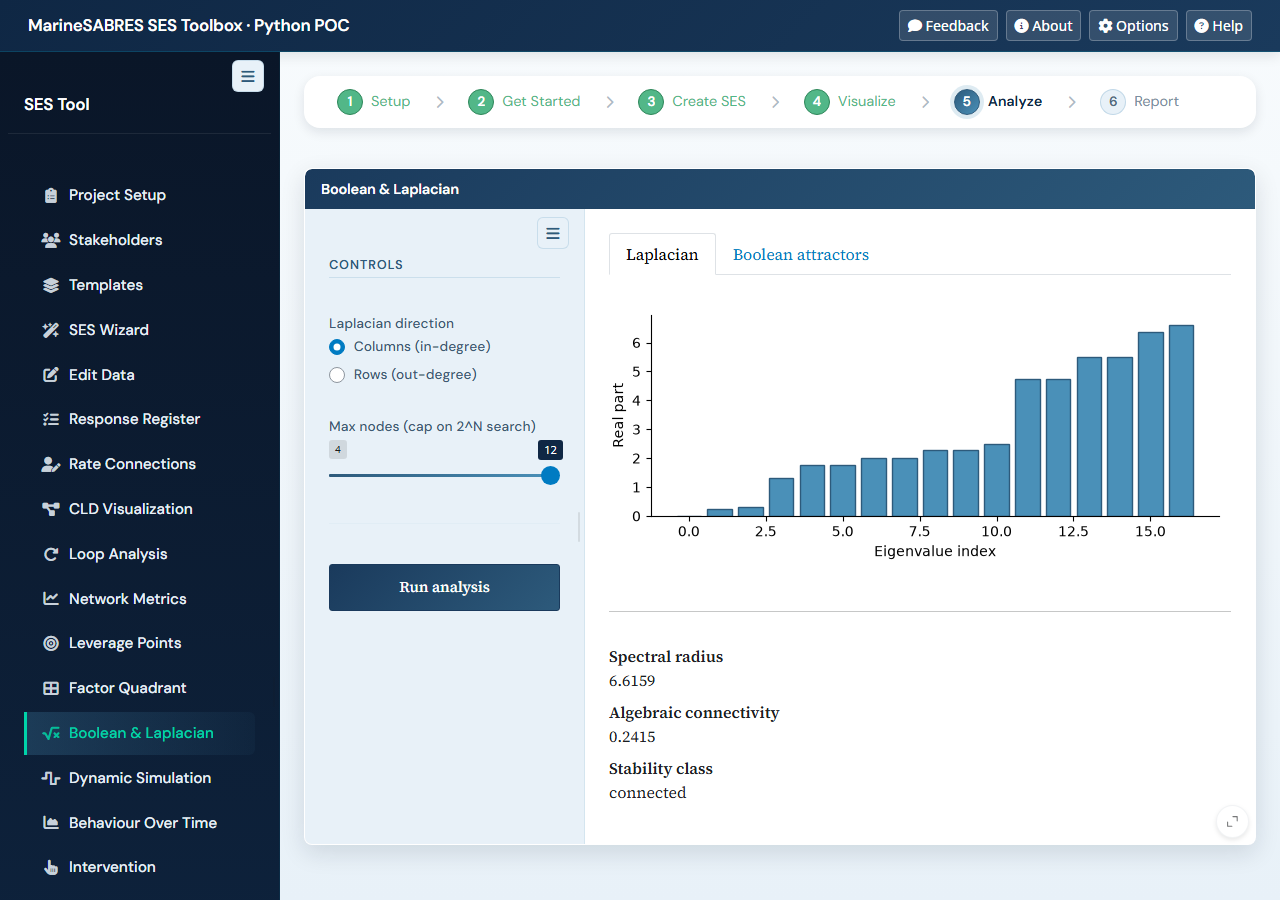
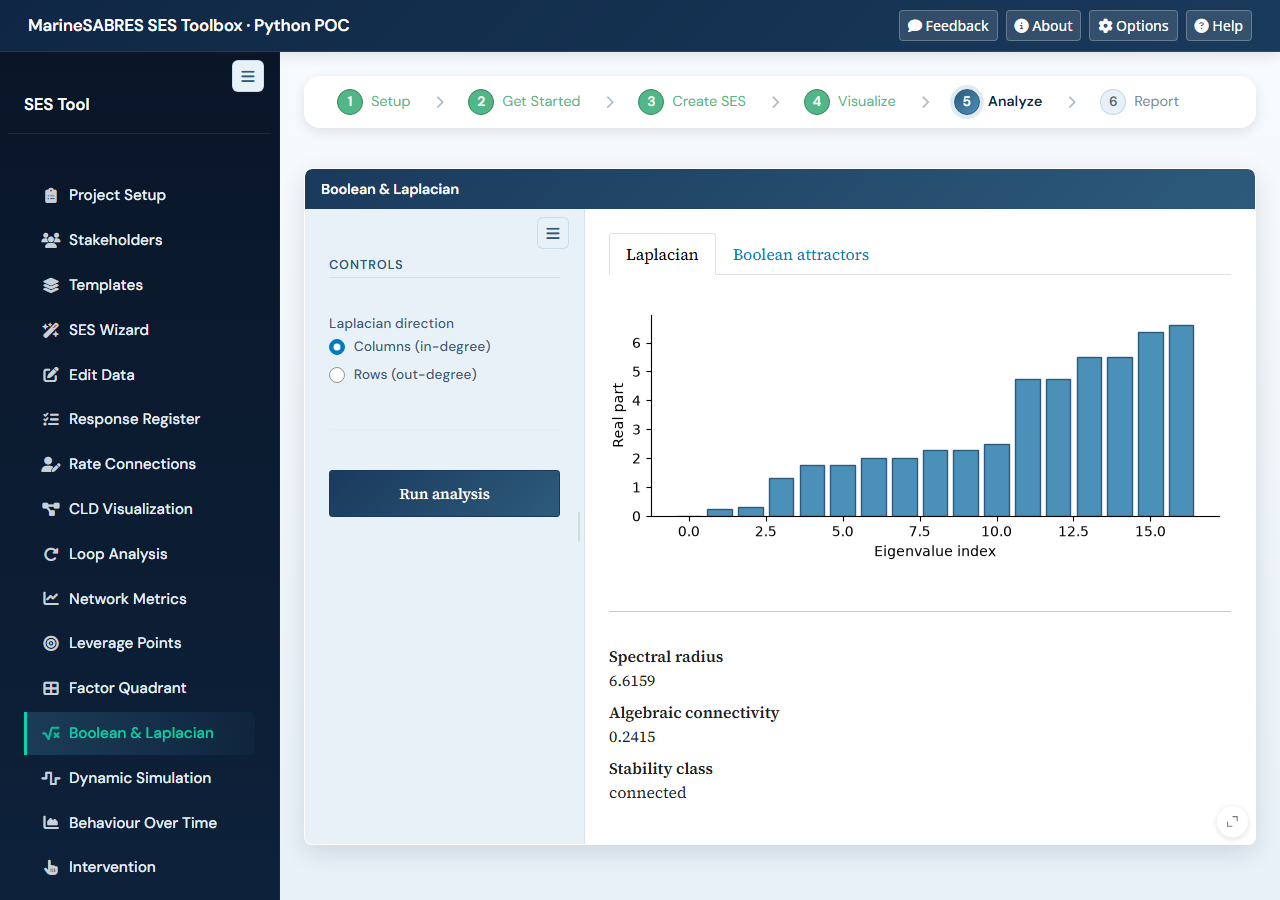
test(boolean): e2e for core, all-off and sampled paths; manual §17
Claude-Session: https://claude.ai/code/session_01JnZgoXKWzYkN6cfmEZbXzr

Changed region(s): [[0.25, 0.4667, 0.4375, 0.5911], [0.25, 0.6222, 0.4375, 0.6844]]

diff --git a/tests/test_boolean_sampled_e2e.py b/tests/test_boolean_sampled_e2e.py
@@ -1,0 +1,141 @@
+"""E2E for the Boolean / Laplacian module — sampled fallback.
+
+Companion to ``tests/test_boolean_e2e.py`` (all-off) and
+``tests/test_boolean_happy_e2e.py`` (exact multi-attractor table). This test
+loads the Caribbean MarineSABRES template (78 elements; a 64-node feedback
+core, above the exact limit of 20 core nodes), so the background task falls
+back to the sampled whole-network search with the fixed arguments
+(2000 random starts, seed 0). It checks:
+  - the ``core_info`` line names the whole network and its core;
+  - the ``core_too_large`` warning names the core size and the limit;
+  - the ``sampled_note`` paragraph is shown;
+  - the sampled table has at least one attractor row;
+  - no danger alert anywhere.
+
+Every selector is scoped to the module's namespaced ids (``#boolean-...``):
+all nav panels share one DOM, so a bare ``text=`` match could hit another
+panel.
+"""
+import asyncio
+
+from playwright.async_api import async_playwright
+
+CARIBBEAN = "Caribbean Island - Comprehensive SES Template (MarineSABRES)"
+
+
+async def main():
+    async with async_playwright() as p:
+        browser = await p.chromium.launch()
+        page = await (await browser.new_context()).new_page()
+        await page.set_viewport_size({"width": 1280, "height": 900})
+        await page.goto("http://127.0.0.1:8000", wait_until="networkidle")
+
+        # --- Step 1: load the Caribbean template via the Templates panel.
+        await page.wait_for_selector("#sespy_nav_templates", timeout=60000)
+        await page.click("#sespy_nav_templates")
+        await page.wait_for_selector("#templates-templates_list h5", timeout=30000)
+
+        # The card order (h5s, MarineSABRES group first) is the order of the
+        # load_template_<i> buttons; find the card by its name.
+        cards = await page.evaluate(
+            "() => Array.from(document.querySelectorAll('#templates-templates_list h5'))"
+            ".map(e => e.textContent.trim())"
+        )
+        print("templates listed:", cards)
+        assert CARIBBEAN in cards, f"Caribbean template missing from list: {cards}"
+        load_btn = f"#templates-load_template_{cards.index(CARIBBEAN)}"
+        # The h5s render before Shiny binds the buttons; an unbound click is lost.
+        await page.wait_for_selector(f"{load_btn}.shiny-bound-input", timeout=15000)
+        await page.click(load_btn)
+        await page.wait_for_timeout(2500)
+
+        # --- Step 2: run the analysis on the loaded 78-node SES.
+        await page.click("#sespy_nav_boolean")
+        await page.wait_for_selector("#boolean-run_boolean.shiny-bound-input", timeout=30000)
+        await page.click("#boolean-run_boolean")
+
+        # The Laplacian part is synchronous: its stability summary is the
+        # witness that this Run reached the server.
+        await page.wait_for_function(
+            "() => document.querySelectorAll('#boolean-stability_summary dl dt').length >= 3",
+            timeout=60000,
+        )
+
+        # Scope to this module's navset, never a bare text= match.
+        await page.click("#boolean-boolean_tabs a[data-value='Boolean attractors']")
+
+        # Wait for the background task's result (a table row or any alert),
+        # not a fixed delay. The sampled search takes about half a second
+        # idle; the budget allows for a loaded machine.
+        await page.wait_for_selector(
+            "#boolean-attractor_panel table tbody tr, #boolean-attractor_panel .alert-danger",
+            timeout=90000,
+        )
+
+        danger_count = await page.evaluate(
+            "() => document.querySelectorAll('.alert-danger').length"
+        )
+        print(f"alert-danger count: {danger_count}")
+        assert danger_count == 0, f"unexpected error alert(s) present: {danger_count}"
+
+        core_info = await page.evaluate(
+            "() => {"
+            "  const e = document.querySelector('#boolean-attractor_panel .boolean-core-info');"
+            "  return e ? e.textContent.trim() : null;"
+            "}"
+        )
+        print(f"core info: {core_info!r}")
+        assert (core_info is not None and "78 nodes" in core_info
+                and "64 in the feedback core" in core_info), \
+            f"core_info line missing or wrong: {core_info}"
+
+        warning = await page.evaluate(
+            "() => {"
+            "  const w = document.querySelector('#boolean-attractor_panel .alert-warning');"
+            "  return w ? w.textContent.trim() : null;"
+            "}"
+        )
+        print(f"core_too_large warning: {warning!r}")
+        assert warning is not None, "expected the core_too_large warning"
+        assert ("feedback core has 64 nodes" in warning
+                and "exact limit of 20" in warning
+                and "sampled search" in warning), \
+            f"warning text doesn't match core_too_large: {warning}"
+
+        note = await page.evaluate(
+            "() => {"
+            "  const ps = Array.from(document.querySelectorAll("
+            "    '#boolean-attractor_panel p.text-muted'));"
+            "  const p = ps.find(e => e.textContent.trim().startsWith('Sampled search:'));"
+            "  return p ? p.textContent.trim() : null;"
+            "}"
+        )
+        print(f"sampled note: {note!r}")
+        assert note is not None, "expected the sampled_note paragraph"
+        assert ("2000 random start states (seed 0)" in note
+                and "within 1000 steps" in note), \
+            f"sampled note doesn't show the fixed arguments: {note}"
+
+        # Sampled table: count rows on the table element itself.
+        n_rows = await page.evaluate(
+            "() => document.querySelectorAll("
+            "  '#boolean-attractor_panel table tbody tr'"
+            ").length"
+        )
+        print(f"sampled attractor table rows: {n_rows}")
+        assert n_rows >= 1, f"expected >=1 attractor row in table, got {n_rows}"
+
+        headers = await page.evaluate(
+            "() => Array.from(document.querySelectorAll("
+            "  '#boolean-attractor_panel table thead th')).map(e => e.textContent.trim())"
+        )
+        print(f"sampled table headers: {headers}")
+        assert "Hits" in headers and "basin_size" not in headers, \
+            f"sampled table should show hits and no basin size: {headers}"
+
+        await page.screenshot(path="tests/screenshots/boolean_sampled.png")
+        print("\nboolean sampled-path e2e assertions pass")
+        await browser.close()
+
+
+asyncio.run(main())

diff --git a/tests/test_boolean_happy_e2e.py b/tests/test_boolean_happy_e2e.py
@@ -1,13 +1,15 @@
-"""E2E for the Boolean / Laplacian module — happy path.
+"""E2E for the Boolean / Laplacian module — multi-attractor happy path.
 
-Companion to ``tests/test_boolean_e2e.py``. The default 17-node sample exceeds
-the 12-node Boolean attractor cap, so that test only exercises the warning
-branch. This test loads the ``Minimal Demo`` 5-node template (which is below
-the cap) and verifies that the attractor table renders with at least one row
-end-to-end:
+Companion to ``tests/test_boolean_e2e.py`` (the default sample's all-off
+result) and ``tests/test_boolean_sampled_e2e.py`` (the sampled fallback). This
+test loads the ``Minimal Demo`` 5-node template, whose whole network is its
+feedback core (a positive 3-cycle plus a mutually activating pair), and checks
+the exact feedback-core search end to end:
   - Eigenvalue plot still renders.
   - Stability summary populates.
-  - Boolean tab shows a populated ``<table>`` (no warning, no danger alert).
+  - Boolean tab shows the ``core_info`` line and a table with at least two
+    attractor rows (no warning, no danger alert). The search runs in a
+    background task, so the test waits for its result, not a fixed delay.
 """
 import asyncio
 
@@ -102,32 +104,25 @@ async def main():
         # Scope to this module's navset, never a bare text= match: every panel
         # shares one DOM, so a future label elsewhere would hijack this click.
         await page.click("#boolean-boolean_tabs a[data-value='Boolean attractors']")
-        # Wait for the attractor panel's reactive content instead of racing a
-        # fixed sleep. Deliberately a NEUTRAL any-content gate, not
-        # "table tbody tr": gating on the table would pre-empt the
-        # alert-warning assertion below, so a too-large warning regressed onto a
-        # 5-node network would die on an opaque selector timeout instead of
-        # failing with "unexpected too-large warning on a 5-node network".
-        # The placeholder clause is defensive only here (the Run click above
-        # already set result_store, so analysis_boolean.py:183 cannot render),
-        # but it keeps the gate correct if that order is ever reversed.
-        await page.wait_for_function(
-            "() => {"
-            "  const el = document.querySelector('#boolean-attractor_panel');"
-            "  if (!el) return false;"
-            "  const s = (el.textContent || '').trim();"
-            "  return s.length > 0 && !s.includes(\"Click 'Run analysis'\");"
-            "}",
-            timeout=15000,
+        # Wait for the background search's FINAL content, not a fixed sleep.
+        # Deliberately a neutral gate (a table row OR any alert), not
+        # "table tbody tr" alone: gating on the table would pre-empt the
+        # alert assertions below, so a warning regressed onto a 5-node network
+        # would die on an opaque selector timeout instead of failing with a
+        # clear message. The "Computing attractors…" and "Click 'Run
+        # analysis'" placeholders are bare <p>s and do not satisfy it.
+        await page.wait_for_selector(
+            "#boolean-attractor_panel table tbody tr, #boolean-attractor_panel .alert",
+            timeout=60000,
         )
 
-        # No too-large warning — we're below the 12-node cap.
+        # No warning: the 5-node core is far inside the exact limit.
         warning_count = await page.evaluate(
             "() => document.querySelectorAll('#boolean-attractor_panel .alert-warning').length"
         )
         print(f"alert-warning count (should be 0): {warning_count}")
         assert warning_count == 0, \
-            "unexpected too-large warning on a 5-node network"
+            "unexpected warning on a 5-node network"
 
         # No danger alert anywhere on the page.
         danger_count = await page.evaluate(
@@ -136,15 +131,29 @@ async def main():
         print(f"alert-danger count: {danger_count}")
         assert danger_count == 0, f"unexpected error alert(s) present: {danger_count}"
 
-        # Attractor table populated.
+        # core_info header line: whole network and its feedback core.
+        core_info = await page.evaluate(
+            "() => {"
+            "  const e = document.querySelector('#boolean-attractor_panel .boolean-core-info');"
+            "  return e ? e.textContent.trim() : null;"
+            "}"
+        )
+        print(f"core info: {core_info!r}")
+        assert (core_info is not None and "5 nodes" in core_info
+                and "5 in the feedback core" in core_info
+                and "basin sizes exact" in core_info), \
+            f"core_info line missing or wrong: {core_info}"
+
+        # Attractor table populated with several attractors (count rows on
+        # the table element itself).
         n_rows = await page.evaluate(
             "() => document.querySelectorAll("
             "  '#boolean-attractor_panel table tbody tr'"
             ").length"
         )
         print(f"attractor table rows: {n_rows}")
-        assert n_rows >= 1, \
-            f"expected >=1 attractor row in table, got {n_rows}"
+        assert n_rows >= 2, \
+            f"expected >=2 attractor rows in table, got {n_rows}"
 
         await page.screenshot(path="tests/screenshots/boolean_happy.png")
         print("\nboolean happy-path e2e assertions pass")

diff --git a/tests/test_boolean_e2e.py b/tests/test_boolean_e2e.py
@@ -1,16 +1,17 @@
-"""E2E for the Boolean / Laplacian module.
+"""E2E for the Boolean / Laplacian module: the all-off path.
 
-Default sample SES has 17 nodes, which exceeds the Boolean attractor search
-cap (12). This test verifies the module handles that path gracefully:
+The default sample SES has 17 nodes and a 16-node feedback core, inside the
+exact limit of 20 core nodes, so the feedback-core search runs exactly (in a
+background task). Its only attractor is the all-off fixed point, so the panel
+shows the all-off sentence as an info alert instead of a one-row table:
   - Laplacian eigenvalue plot still renders.
   - Stability summary populates.
-  - Boolean tab shows the "Use Simplify Network" warning, not a crash.
-  - No error alert (alert-danger) appears anywhere — the cap is a *warning*
-    (alert-warning), not an error.
+  - Boolean tab shows the core_info line and the all-off info alert
+    (alert-info), with no table and no warning.
+  - No error alert (alert-danger) appears anywhere.
 
-The happy path (attractor table populates) is covered by 5 unit tests in
-tests/test_dynamics.py against small synthetic networks. This e2e covers the
-wire-up and the too-large code branch — the two things unit tests can't reach.
+The multi-attractor table is covered by tests/test_boolean_happy_e2e.py and
+the sampled fallback by tests/test_boolean_sampled_e2e.py.
 """
 import asyncio
 
@@ -91,22 +92,45 @@ async def main():
         # Scope to this module's navset, never a bare text= match: every panel
         # shares one DOM, so a future label elsewhere would hijack this click.
         await page.click("#boolean-boolean_tabs a[data-value='Boolean attractors']")
-        # Wait for the attractor panel's reactive content (the too_large
-        # warning alert) rather than racing a fixed sleep.
-        await page.wait_for_selector("#boolean-attractor_panel .alert-warning", timeout=15000)
+        # The search runs in a background task: wait for its result (the
+        # all-off info alert), not a fixed delay. Generous budget for a loaded
+        # machine; the search itself takes well under a second.
+        await page.wait_for_selector("#boolean-attractor_panel .alert-info", timeout=60000)
 
-        # On the default 17-node sample we expect the too_large warning,
-        # not a crash and not a danger error.
-        warning_text = await page.evaluate(
+        info_text = await page.evaluate(
             "() => {"
-            "  const w = document.querySelector('#boolean-attractor_panel .alert-warning');"
+            "  const w = document.querySelector('#boolean-attractor_panel .alert-info');"
             "  return w ? w.textContent.trim() : null;"
             "}"
         )
-        print(f"warning alert: {warning_text!r}")
-        assert warning_text is not None, "expected alert-warning in attractor panel"
-        assert "Network has" in warning_text and "Simplify Network" in warning_text, \
-            f"warning text doesn't match too_large pattern: {warning_text}"
+        print(f"info alert: {info_text!r}")
+        assert info_text is not None, "expected alert-info in attractor panel"
+        assert ("no feedback loop keeps any element active" in info_text
+                and "all elements off" in info_text), \
+            f"info text doesn't match the all-off sentence: {info_text}"
+
+        core_info = await page.evaluate(
+            "() => {"
+            "  const e = document.querySelector('#boolean-attractor_panel .boolean-core-info');"
+            "  return e ? e.textContent.trim() : null;"
+            "}"
+        )
+        print(f"core info: {core_info!r}")
+        assert (core_info is not None and "17 nodes" in core_info
+                and "16 in the feedback core" in core_info
+                and "basin sizes exact" in core_info), \
+            f"core_info line missing or wrong: {core_info}"
+
+        # all_off_only hides the single-row table; no cap/too-large warning.
+        n_tables = await page.evaluate(
+            "() => document.querySelectorAll('#boolean-attractor_panel table').length"
+        )
+        n_warn = await page.evaluate(
+            "() => document.querySelectorAll('#boolean-attractor_panel .alert-warning').length"
+        )
+        print(f"tables: {n_tables}, alert-warning: {n_warn}")
+        assert n_tables == 0, f"all-off result must not render a table, got {n_tables}"
+        assert n_warn == 0, f"unexpected warning in attractor panel: {n_warn}"
 
         # No danger-level error alert anywhere on the page
         danger_count = await page.evaluate(

diff --git a/docs/MANUAL.md b/docs/MANUAL.md
@@ -129,7 +129,7 @@ Each section below names the panel as it appears in the navigation, then covers 
 
 **Controls.** 11 templates in two groups: "MarineSABRES templates" (the 7 curated templates of the R MarineSABRES SES Toolbox) and "SESPy examples" (SESPy's own 4). One card per template with its name, size and description, and a "Load" button. A MarineSABRES card also shows badges for its category, its complexity ("Simple" or "Complex"), its template version and its regional sea, and a collapsed "About this template" section with the template's source and usage notes. A SESPy example shows its demonstration area instead. Loading replaces the current project, so save first if you want to keep your work; the panel says so at the top.
 
-**Shipped templates: MarineSABRES.** R's template names with " (MarineSABRES)" appended, so they never clash with SESPy's examples: Caribbean Island - Comprehensive SES Template (78 elements, 140 connections, Caribbean Sea, complex), Climate Change (25 and 28, Arctic Ocean), Coastal Lagoon (28 and 30, Baltic Sea), Fisheries (26 and 33, Baltic Sea), Offshore Wind Energy (23 and 27, North Sea, complex), Pollution (28 and 29, Baltic Sea), Tourism (26 and 33, Mediterranean Sea). "Coastal Lagoon (MarineSABRES)" is R's aquaculture template: R names it "Coastal Lagoon", and SESPy keeps R's name. The templates are converted from R release v1.33.0: R's Measures appear as Responses, every link keeps its sign, strength and description, and its confidence (kept within SESPy's 1–5 scale); R records no delays, so every link starts as "immediate". The Caribbean template is large; analyses with a node limit (Boolean allows at most 12 nodes) say so instead of running.
+**Shipped templates: MarineSABRES.** R's template names with " (MarineSABRES)" appended, so they never clash with SESPy's examples: Caribbean Island - Comprehensive SES Template (78 elements, 140 connections, Caribbean Sea, complex), Climate Change (25 and 28, Arctic Ocean), Coastal Lagoon (28 and 30, Baltic Sea), Fisheries (26 and 33, Baltic Sea), Offshore Wind Energy (23 and 27, North Sea, complex), Pollution (28 and 29, Baltic Sea), Tourism (26 and 33, Mediterranean Sea). "Coastal Lagoon (MarineSABRES)" is R's aquaculture template: R names it "Coastal Lagoon", and SESPy keeps R's name. The templates are converted from R release v1.33.0: R's Measures appear as Responses, every link keeps its sign, strength and description, and its confidence (kept within SESPy's 1–5 scale); R records no delays, so every link starts as "immediate". The Caribbean template is large; analyses with a node limit say so instead of running, and the Boolean tab falls back to a sampled search because its feedback core is above the exact limit of 20 (section 17).
 
 **Shipped templates: SESPy examples.** Coastal Tourism SES (17 elements, 20 connections, Tuscan Archipelago), Minimal Demo (5 and 6, a positive three-cycle plus a mutually activating pair, useful for learning the analyses), Offshore Wind Farm SES (19 and 21, Macaronesia), Small-scale Coastal Fisheries SES (18 and 22, Arctic Northeast Atlantic).
 
@@ -281,13 +281,19 @@ The Countries step lists the countries the R app lists for the chosen sea, from 
 
 **Purpose.** Two structural stability views of the signed adjacency matrix (section 41).
 
-**Controls.** "Laplacian direction" (columns, in-degree, or rows, out-degree); "Max nodes (cap on 2^N search)" from 4 to 12; "Run analysis".
+**Controls.** "Laplacian direction" (columns, in-degree, or rows, out-degree) and "Run analysis". There is no node-limit control: the limit is fixed and applies to the feedback core (below), not to the whole network.
 
-**Outputs.** The "Laplacian" tab shows the eigenvalue spectrum as a bar chart and a definition list with spectral radius, algebraic connectivity and a stability class. The "Boolean attractors" tab lists every attractor found by exhaustive search with its type, period, basin size and a representative state.
+**Outputs.** The "Laplacian" tab shows the eigenvalue spectrum as a bar chart and a definition list with spectral radius, algebraic connectivity and a stability class. The "Boolean attractors" tab first shows "Computing attractors…" while the search runs in the background, then a header line such as "17 nodes · 16 in the feedback core · basin sizes exact": the size of the network, the size of its feedback core, and whether the basins are exact or estimated from random starts. Below it is a table with one row per attractor: type (fixed or cyclic), period, basin fraction (%), basin size (exact basins only) and a representative state (a string of 0s and 1s, one per element, with "+ k more" for the rest of a cycle). The table shows at most 100 attractors, those with the largest basins; when more were found, a note under it says how many.
 
-**Reading it.** The Laplacian spectrum characterises how perturbations spread; the algebraic connectivity is the second-smallest eigenvalue, zero when the graph is disconnected. Boolean attractors are the states or cycles the system settles into when every element is on or off and updates by the sign of its inputs. A large basin means many starting states end there.
+**The feedback core.** Only the elements that lie on a feedback loop, or between two loops, decide where the system settles. Elements upstream of every loop settle to a fixed pattern, and elements only downstream of loops just follow the loops. SESPy therefore searches every on/off state of the feedback core exhaustively and rebuilds the full attractors from it, so the size of the whole network does not limit the exact search. The exact limit is 20 elements in the feedback core. A network with no feedback loop at all has an empty core.
 
-**Caveats.** The Boolean search is exhaustive over 2^N states and hard-capped at 12 nodes. The sample has 17, so on a first run the Boolean tab shows the cap message while the Laplacian tab works. The message suggests Simplify Network, but that panel is preview-only (section 21); to run the Boolean search you have to reduce the project in Edit Data. Results are marked stale after any edit until re-run.
+**Sampled fallback.** When the feedback core has more than 20 elements (the Caribbean template's core has 64), the tab says "The feedback core has 64 nodes, above the exact limit of 20. Showing a sampled search instead." It then runs the whole network from 2000 random start states (seed 0, at most 1000 steps each) and lists the attractors those trajectories reached, with the number of hits and the basin fraction (%), but no basin size. A note gives the arguments and how many trajectories did not settle. These values are fixed and cannot be changed in the app. Rare attractors may be missed, and the basin fractions are estimates. Networks above 200 elements are not analysed at all.
+
+**The all-off result.** When the only attractor is the state with every element off, the tab shows the sentence "Without external drivers, no feedback loop keeps any element active: every state settles to all elements off." instead of a one-row table. This is what the sample project gives (17 elements, 16 in the feedback core). It is a result, not an error: in this rule set an element switches on only when its weighted inputs sum to more than zero, and an element with no inputs stays off, so without a self-sustaining reinforcing loop all activity dies out.
+
+**Reading it.** The Laplacian spectrum characterises how perturbations spread; the algebraic connectivity is the second-smallest eigenvalue, zero when the graph is disconnected. Boolean attractors are the states or cycles the system settles into when every element is on or off and updates by the sign of its inputs. A large basin means many starting states end there. Several attractors mean the system can settle into alternative states depending on where it starts.
+
+**Caveats.** The 200-element message suggests Simplify Network, but that panel is preview-only (section 21); to analyse such a network you have to reduce the project in Edit Data. Results are marked stale after any edit until re-run.
 
 ## 18. Dynamic Simulation
 
@@ -463,7 +469,7 @@ Donlan, Arteaga-Bengoa and Carrasco (2026, preprint) evaluate interventions in s
 
 ## 41. Laplacian stability and Boolean attractors
 
-Two views from dynamical systems, ported from the R toolbox. SESPy builds the **graph Laplacian** from the magnitudes of the weighted adjacency matrix, in the chosen direction; signs are dropped for this view but still drive the Boolean rules. Its spectrum is summarised as the spectral radius, the largest eigenvalue modulus, which bounds how fast perturbations can grow, and the algebraic connectivity, the real part of the second-smallest eigenvalue. For an undirected graph the latter is zero exactly when the graph is disconnected; for the directed Laplacian used here it is a heuristic of how well connected the diagram is. A coarse stability class is derived from both. A **Boolean network** treats each element as on or off and updates it by the sign of its weighted inputs; iterating from every one of the 2^N starting states finds the attractors, fixed points or cycles, and their basin sizes. The search is exhaustive, hence the cap of 12 elements.
+Two views from dynamical systems, ported from the R toolbox. SESPy builds the **graph Laplacian** from the magnitudes of the weighted adjacency matrix, in the chosen direction; signs are dropped for this view but still drive the Boolean rules. Its spectrum is summarised as the spectral radius, the largest eigenvalue modulus, which bounds how fast perturbations can grow, and the algebraic connectivity, the real part of the second-smallest eigenvalue. For an undirected graph the latter is zero exactly when the graph is disconnected; for the directed Laplacian used here it is a heuristic of how well connected the diagram is. A coarse stability class is derived from both. A **Boolean network** treats each element as on or off and updates it by the sign of its weighted inputs; the attractors are the fixed points or cycles that every one of the 2^N starting states ends in, and a basin is the set of states that end in one attractor. Only the feedback core, the elements on a loop or between loops, decides the attractors: elements upstream of every loop settle to a constant pattern and read-outs follow the core. SESPy searches all on/off states of the core exhaustively, which is exact for cores of up to 20 elements, and samples whole-network trajectories from random starts above that (section 17).
 
 ## 42. Multi-rater consensus and contested edges
 
@@ -561,7 +567,7 @@ Listed by the SESPy feature each paper informed, with the release that shipped i
 - Simplify Network is a preview; it does not change the project.
 - Behaviour Over Time series are session-only and not saved with the project.
 - Recent Projects records the browser upload's temporary path, so entries can vanish; Save Project does not add entries.
-- The Boolean attractor search is hard-capped at 12 elements. The sample has 17.
+- The exact Boolean attractor search is limited to a feedback core of 20 elements; above that it is sampled, and it may miss rare attractors. Networks above 200 elements are not analysed.
 - PDF export requires WeasyPrint; HTML and Word do not.
 - The report omits stakeholders, the factor quadrant, Boolean, simulation and Behaviour Over Time results, and reports loops as reinforcing or balancing only.
 - The KL early-warning rule cannot fire before step 3 of the cascade, so on hub-shaped models the departure follows the threshold rather than preceding it.
